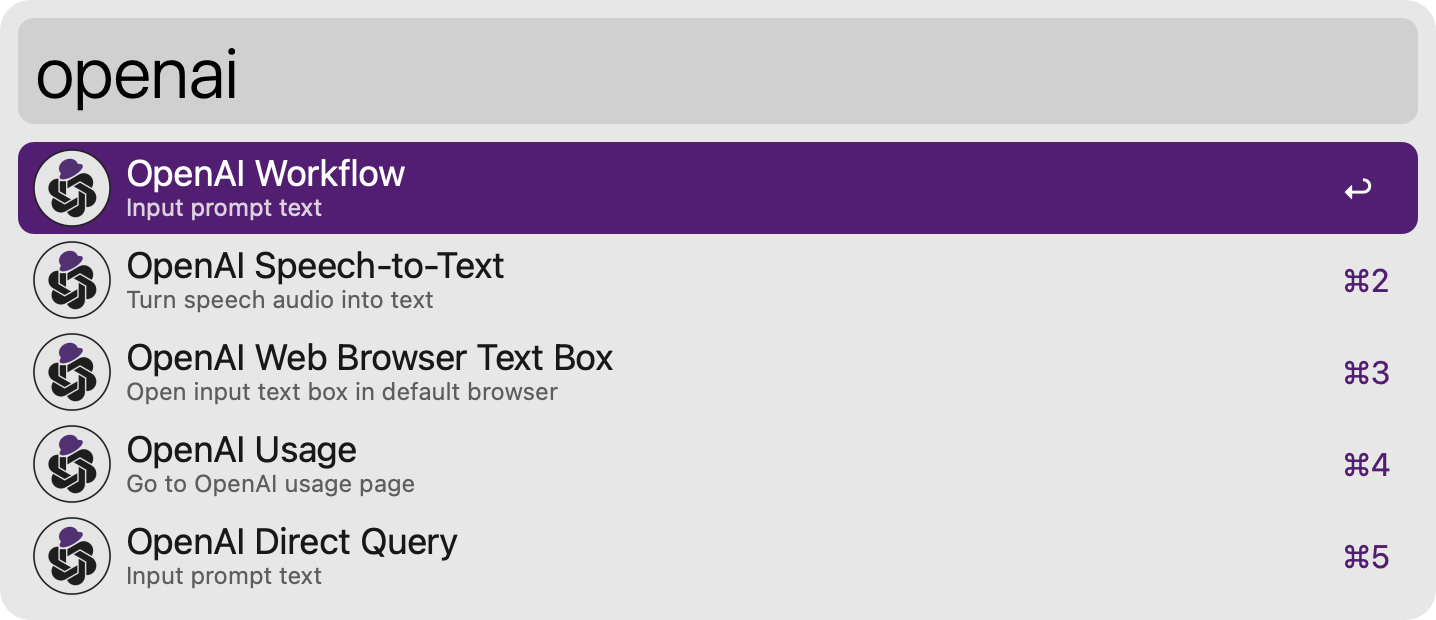
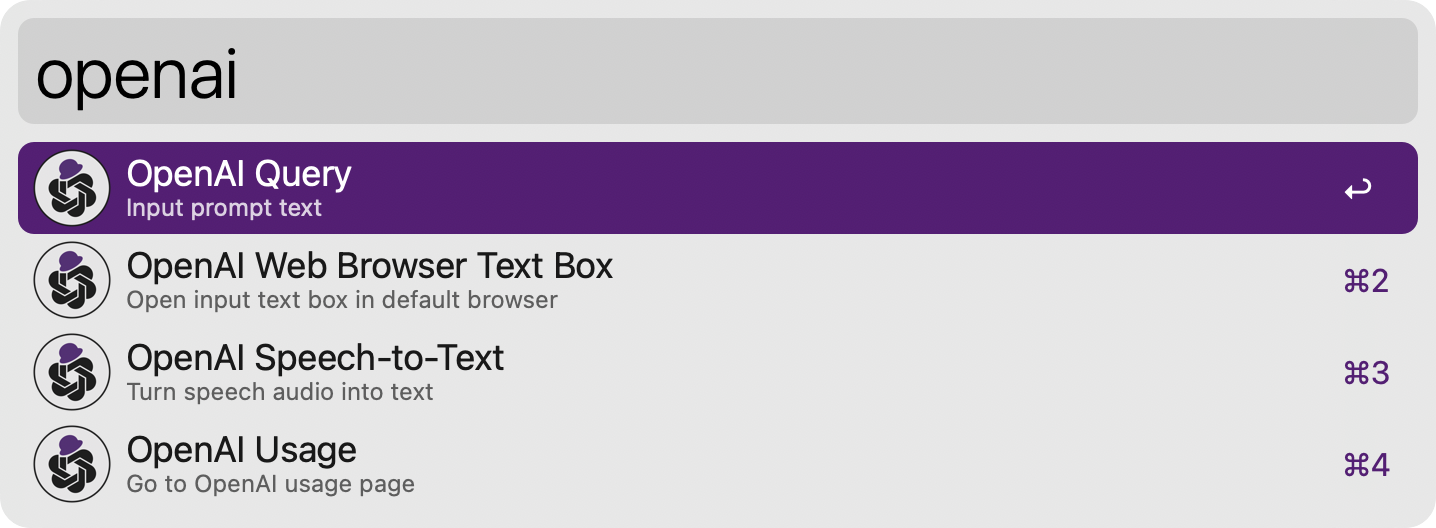
New keyword (gpt) added for simple query

diff --git a/README.md b/README.md
@@ -16,7 +16,7 @@
 
 **Recent Change Log**
 
-- 1.11.2: New keyword (`gpt`) for stream-lined simple query added
+- 1.11.2: New keyword (`gpt`) added for simple query
 - 1.11.0: Speech-to-text using Whisper API added
 - 1.10.2: `Enhance Prompt` supports both `gpt-4` and `gpt-3.5-turbo`.
 - 1.10.0: `Enhance Prompt` option for image generation mode added
@@ -48,7 +48,7 @@ Installing Pandoc and Sox will be just a few clicks once this workflow has been 
 
 If you simply want to ask something with GPT and get a response:
 
-- Method 1: Type keyword `gpt` → space/tab → input query text (e.g. "gpt what is a large language model?")
+- Method 1: Type keyword `gpt` → space/tab → input query text (e.g. "**gpt** what is a large language model?")
 - Method 2: set up a custom hotkey to `OpenAI Direct Query`
 
 ### 📋 Using Selected Text

diff --git a/CHANGELOG.md b/CHANGELOG.md
@@ -1,6 +1,6 @@
 # Change Log
 
-- 1.11.2: New keyword (`gpt`) for stream-lined simple query added
+- 1.11.2: New keyword (`gpt`) added for simple query
 - 1.11.0: Speech-to-text using Whisper API added
 - 1.10.2: `Enhance Prompt` supports both `gpt-4` and `gpt-3.5-turbo`.
 - 1.10.0: `Enhance Prompt` option for image generation mode added
